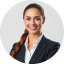
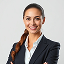
testimoials section

diff --git a/index.html b/index.html
@@ -123,6 +123,166 @@
                 </button>
             </div>
         </section>
+        <section class="testimonials"><!-- testimonials section-->
+            <div class="heading">
+                <h4>ماذا يقول المستخدمون ⚽ </h4>
+                <p>آراء وتجارب حقيقية من مستخدمي المنصة</p>
+            </div>
+            <div class="container">
+                <div class="box one">
+                    <div class="top">
+                        <div class="left">
+                            <img src="imgs/start.png" alt="start">
+                            <img src="imgs/start.png" alt="start">
+                            <img src="imgs/start.png" alt="start">
+                            <img src="imgs/start.png" alt="start">
+                            <img src="imgs/start.png" alt="start">
+                        </div>
+                        <div class="right">
+                            <p>سارة علي <br> <span>مدربة معتمدة</span></p>
+                            <img src="imgs/user.png" alt="user">
+                        </div>
+                    </div>
+                    <div class="bottom">
+                        <p>"أداة ممتازة لاكتشاف المواهب الشابة وإدارة الفرق. استطعت بناء فريق قوي من اللاعبين الموهوبين
+                            من خلال المنصةوالتواصل معهم بسهولة"</p>
+                    </div>
+                </div>
+                <div class="box two">
+                    <div class="top">
+                        <div class="left">
+                            <img src="imgs/start.png" alt="start">
+                            <img src="imgs/start.png" alt="start">
+                            <img src="imgs/start.png" alt="start">
+                            <img src="imgs/start.png" alt="start">
+                            <img src="imgs/start.png" alt="start">
+                        </div>
+                        <div class="right">
+                            <p>سارة علي <br> <span>مدربة معتمدة</span></p>
+                            <img src="imgs/user.png" alt="user">
+                        </div>
+                    </div>
+                    <div class="bottom">
+                        <p>"أداة ممتازة لاكتشاف المواهب الشابة وإدارة الفرق. استطعت بناء فريق قوي من اللاعبين الموهوبين
+                            من خلال المنصةوالتواصل معهم بسهولة"</p>
+                    </div>
+                </div>
+                <div class="box three">
+                    <div class="top">
+                        <div class="left">
+                            <img src="imgs/start.png" alt="start">
+                            <img src="imgs/start.png" alt="start">
+                            <img src="imgs/start.png" alt="start">
+                            <img src="imgs/start.png" alt="start">
+                            <img src="imgs/start.png" alt="start">
+                        </div>
+                        <div class="right">
+                            <p>سارة علي <br> <span>مدربة معتمدة</span></p>
+                            <img src="imgs/user.png" alt="user">
+                        </div>
+                    </div>
+                    <div class="bottom">
+                        <p>"أداة ممتازة لاكتشاف المواهب الشابة وإدارة الفرق. استطعت بناء فريق قوي من اللاعبين الموهوبين
+                            من خلال المنصةوالتواصل معهم بسهولة"</p>
+                    </div>
+                </div>
+                <div class="box four">
+                    <div class="top">
+                        <div class="left">
+                            <img src="imgs/start.png" alt="start">
+                            <img src="imgs/start.png" alt="start">
+                            <img src="imgs/start.png" alt="start">
+                            <img src="imgs/start.png" alt="start">
+                            <img src="imgs/start.png" alt="start">
+                        </div>
+                        <div class="right">
+                            <p>سارة علي <br> <span>مدربة معتمدة</span></p>
+                            <img src="imgs/user.png" alt="user">
+                        </div>
+                    </div>
+                    <div class="bottom">
+                        <p>"أداة ممتازة لاكتشاف المواهب الشابة وإدارة الفرق. استطعت بناء فريق قوي من اللاعبين الموهوبين
+                            من خلال المنصةوالتواصل معهم بسهولة"</p>
+                    </div>
+                </div>
+                <div class="box five">
+                    <div class="top">
+                        <div class="left">
+                            <img src="imgs/start.png" alt="start">
+                            <img src="imgs/start.png" alt="start">
+                            <img src="imgs/start.png" alt="start">
+                            <img src="imgs/start.png" alt="start">
+                            <img src="imgs/start.png" alt="start">
+                        </div>
+                        <div class="right">
+                            <p>سارة علي <br> <span>مدربة معتمدة</span></p>
+                            <img src="imgs/user.png" alt="user">
+                        </div>
+                    </div>
+                    <div class="bottom">
+                        <p>"أداة ممتازة لاكتشاف المواهب الشابة وإدارة الفرق. استطعت بناء فريق قوي من اللاعبين الموهوبين
+                            من خلال المنصةوالتواصل معهم بسهولة"</p>
+                    </div>
+                </div>
+                <div class="box six">
+                    <div class="top">
+                        <div class="left">
+                            <img src="imgs/start.png" alt="start">
+                            <img src="imgs/start.png" alt="start">
+                            <img src="imgs/start.png" alt="start">
+                            <img src="imgs/start.png" alt="start">
+                            <img src="imgs/start.png" alt="start">
+                        </div>
+                        <div class="right">
+                            <p>سارة علي <br> <span>مدربة معتمدة</span></p>
+                            <img src="imgs/user.png" alt="user">
+                        </div>
+                    </div>
+                    <div class="bottom">
+                        <p>"أداة ممتازة لاكتشاف المواهب الشابة وإدارة الفرق. استطعت بناء فريق قوي من اللاعبين الموهوبين
+                            من خلال المنصةوالتواصل معهم بسهولة"</p>
+                    </div>
+                </div>
+                <div class="box seven">
+                    <div class="top">
+                        <div class="left">
+                            <img src="imgs/start.png" alt="start">
+                            <img src="imgs/start.png" alt="start">
+                            <img src="imgs/start.png" alt="start">
+                            <img src="imgs/start.png" alt="start">
+                            <img src="imgs/start.png" alt="start">
+                        </div>
+                        <div class="right">
+                            <p>سارة علي <br> <span>مدربة معتمدة</span></p>
+                            <img src="imgs/user.png" alt="user">
+                        </div>
+                    </div>
+                    <div class="bottom">
+                        <p>"أداة ممتازة لاكتشاف المواهب الشابة وإدارة الفرق. استطعت بناء فريق قوي من اللاعبين الموهوبين
+                            من خلال المنصةوالتواصل معهم بسهولة"</p>
+                    </div>
+                </div>
+                <div class="box eight">
+                    <div class="top">
+                        <div class="left">
+                            <img src="imgs/start.png" alt="start">
+                            <img src="imgs/start.png" alt="start">
+                            <img src="imgs/start.png" alt="start">
+                            <img src="imgs/start.png" alt="start">
+                            <img src="imgs/start.png" alt="start">
+                        </div>
+                        <div class="right">
+                            <p>سارة علي <br> <span>مدربة معتمدة</span></p>
+                            <img src="imgs/user.png" alt="user">
+                        </div>
+                    </div>
+                    <div class="bottom">
+                        <p>"أداة ممتازة لاكتشاف المواهب الشابة وإدارة الفرق. استطعت بناء فريق قوي من اللاعبين الموهوبين
+                            من خلال المنصةوالتواصل معهم بسهولة"</p>
+                    </div>
+                </div>
+            </div>
+        </section>
 
     </main>
     <script src="js/main.js"></script>

diff --git a/css/style.css b/css/style.css
@@ -42,7 +42,7 @@ a {
 }
 
 section {
-    padding: 20px;
+    padding: 40px;
     margin: 0 auto;
     width: 100%;
     min-height: 100%;
@@ -375,14 +375,16 @@ section {
 }
 
 /* ******************  information section ******************  */
-.information{
+.information {
     display: flex;
     flex-direction: column;
     justify-content: center;
     align-items: center;
     gap: 25px;
 }
-.information .heading {
+
+.information .heading,
+.testimonials .heading {
     display: flex;
     flex-direction: column;
     justify-content: center;
@@ -391,16 +393,19 @@ section {
 
 }
 
-.information .heading h4 {
+.information .heading h4,
+.testimonials .heading h4 {
     font-weight: 400;
     font-style: Regular;
     font-size: 20px;
     line-height: 28px;
     letter-spacing: 0%;
+    color: #666666;
 
 }
 
-.information .heading p {
+.information .heading p,
+.testimonials .heading p {
     font-weight: 500;
     font-style: Medium;
     font-size: 28px;
@@ -484,16 +489,112 @@ section {
     font-size: 20px;
     color: #666666;
 }
-.information .bottom-heading button{
+
+.information .bottom-heading button {
     display: flex;
     gap: 12px;
     justify-content: space-between;
     align-items: center;
     padding: 8px 16px;
-    background: linear-gradient(to right bottom,#00FF87 , #60A5FA);
+    background: linear-gradient(to right bottom, #00FF87, #60A5FA);
     height: 50px;
     border-radius: 50px;
     border: none;
     /* border: 1px solid;
       border-image:  linear-gradient(to right bottom,#00FF87 , #60A5FA) 1; */
+}
+
+/* ****************** testimonials section ****************** */
+.testimonials {
+    margin: 0;
+    padding: 0;
+    overflow: hidden;
+}
+
+.testimonials .container {
+    display: grid;
+    grid-template-columns:
+        minmax(350px, 1fr) minmax(470px, 1.2fr) minmax(350px, .8fr) minmax(350px, 1fr);
+    gap: 20px;
+    margin: 0;
+    padding-top: 35px;
+    width: calc(100% + 200px);
+    margin-left: -110px;
+}
+
+.testimonials .box {
+    background-color: white;
+    display: flex;
+    flex-direction: column;
+    gap: 20px;
+    padding: 40px 24px;
+    border-radius: 16px;
+    border-width: 1px solid #F3F4F6;
+    min-height: 242px;
+    height: auto;
+}
+
+.testimonials .box .top {
+    display: flex;
+    align-items: center;
+    justify-content: space-between;
+    gap: 16px;
+
+}
+
+.testimonials .box .top .right {
+    display: flex;
+    justify-content: space-between;
+    align-items: center;
+    gap: 10px;
+}
+
+.testimonials .box .top .right img {
+    border-radius: 50%;
+}
+
+.testimonials .box .top .right p {
+    font-weight: 500;
+    font-style: Medium;
+    font-size: 18px;
+    line-height: 28px;
+    color: #111827;
+}
+
+.testimonials .box .top .right span {
+    font-weight: 400;
+    font-style: Regular;
+    font-size: 14px;
+    color: #4B5563;
+}
+
+.testimonials .box .top .right p {
+    text-align: right;
+}
+
+.testimonials .box .bottom {
+    text-align: right;
+    font-weight: 400;
+    font-style: Regular;
+    font-size: 16px;
+    color: #011912;
+}
+
+/* .testimonials .one,
+.testimonials .five {
+    transform: translateX(-50px);
+}
+
+.testimonials .four,
+.testimonials .eight {
+    transform: translateX(50px);
+} */
+
+.testimonials .three,
+.testimonials .seven {
+    margin-top: 30px;
+    /* padding-bottom: 20px;
+    padding-left :30px;
+    padding-right: 30px; */
+
 }

diff --git a/css/responsive.css b/css/responsive.css
@@ -127,7 +127,24 @@
         padding-bottom: 12px;
         padding-top: 12px;
     }
+    /* ******************  testimonials section ******************  */
 
+    .testimonials{
+        overflow:hidden;
+    }
 
+    .testimonials .container{
+        display:flex;
+        gap:16px;
+        transform:translateX(125px);
+    }
+
+    .testimonials .box{
+        width:90vw;
+        flex-shrink:0;
+    }
+.testimonials .box .top {
+gap: 5px;
+}
 
 }